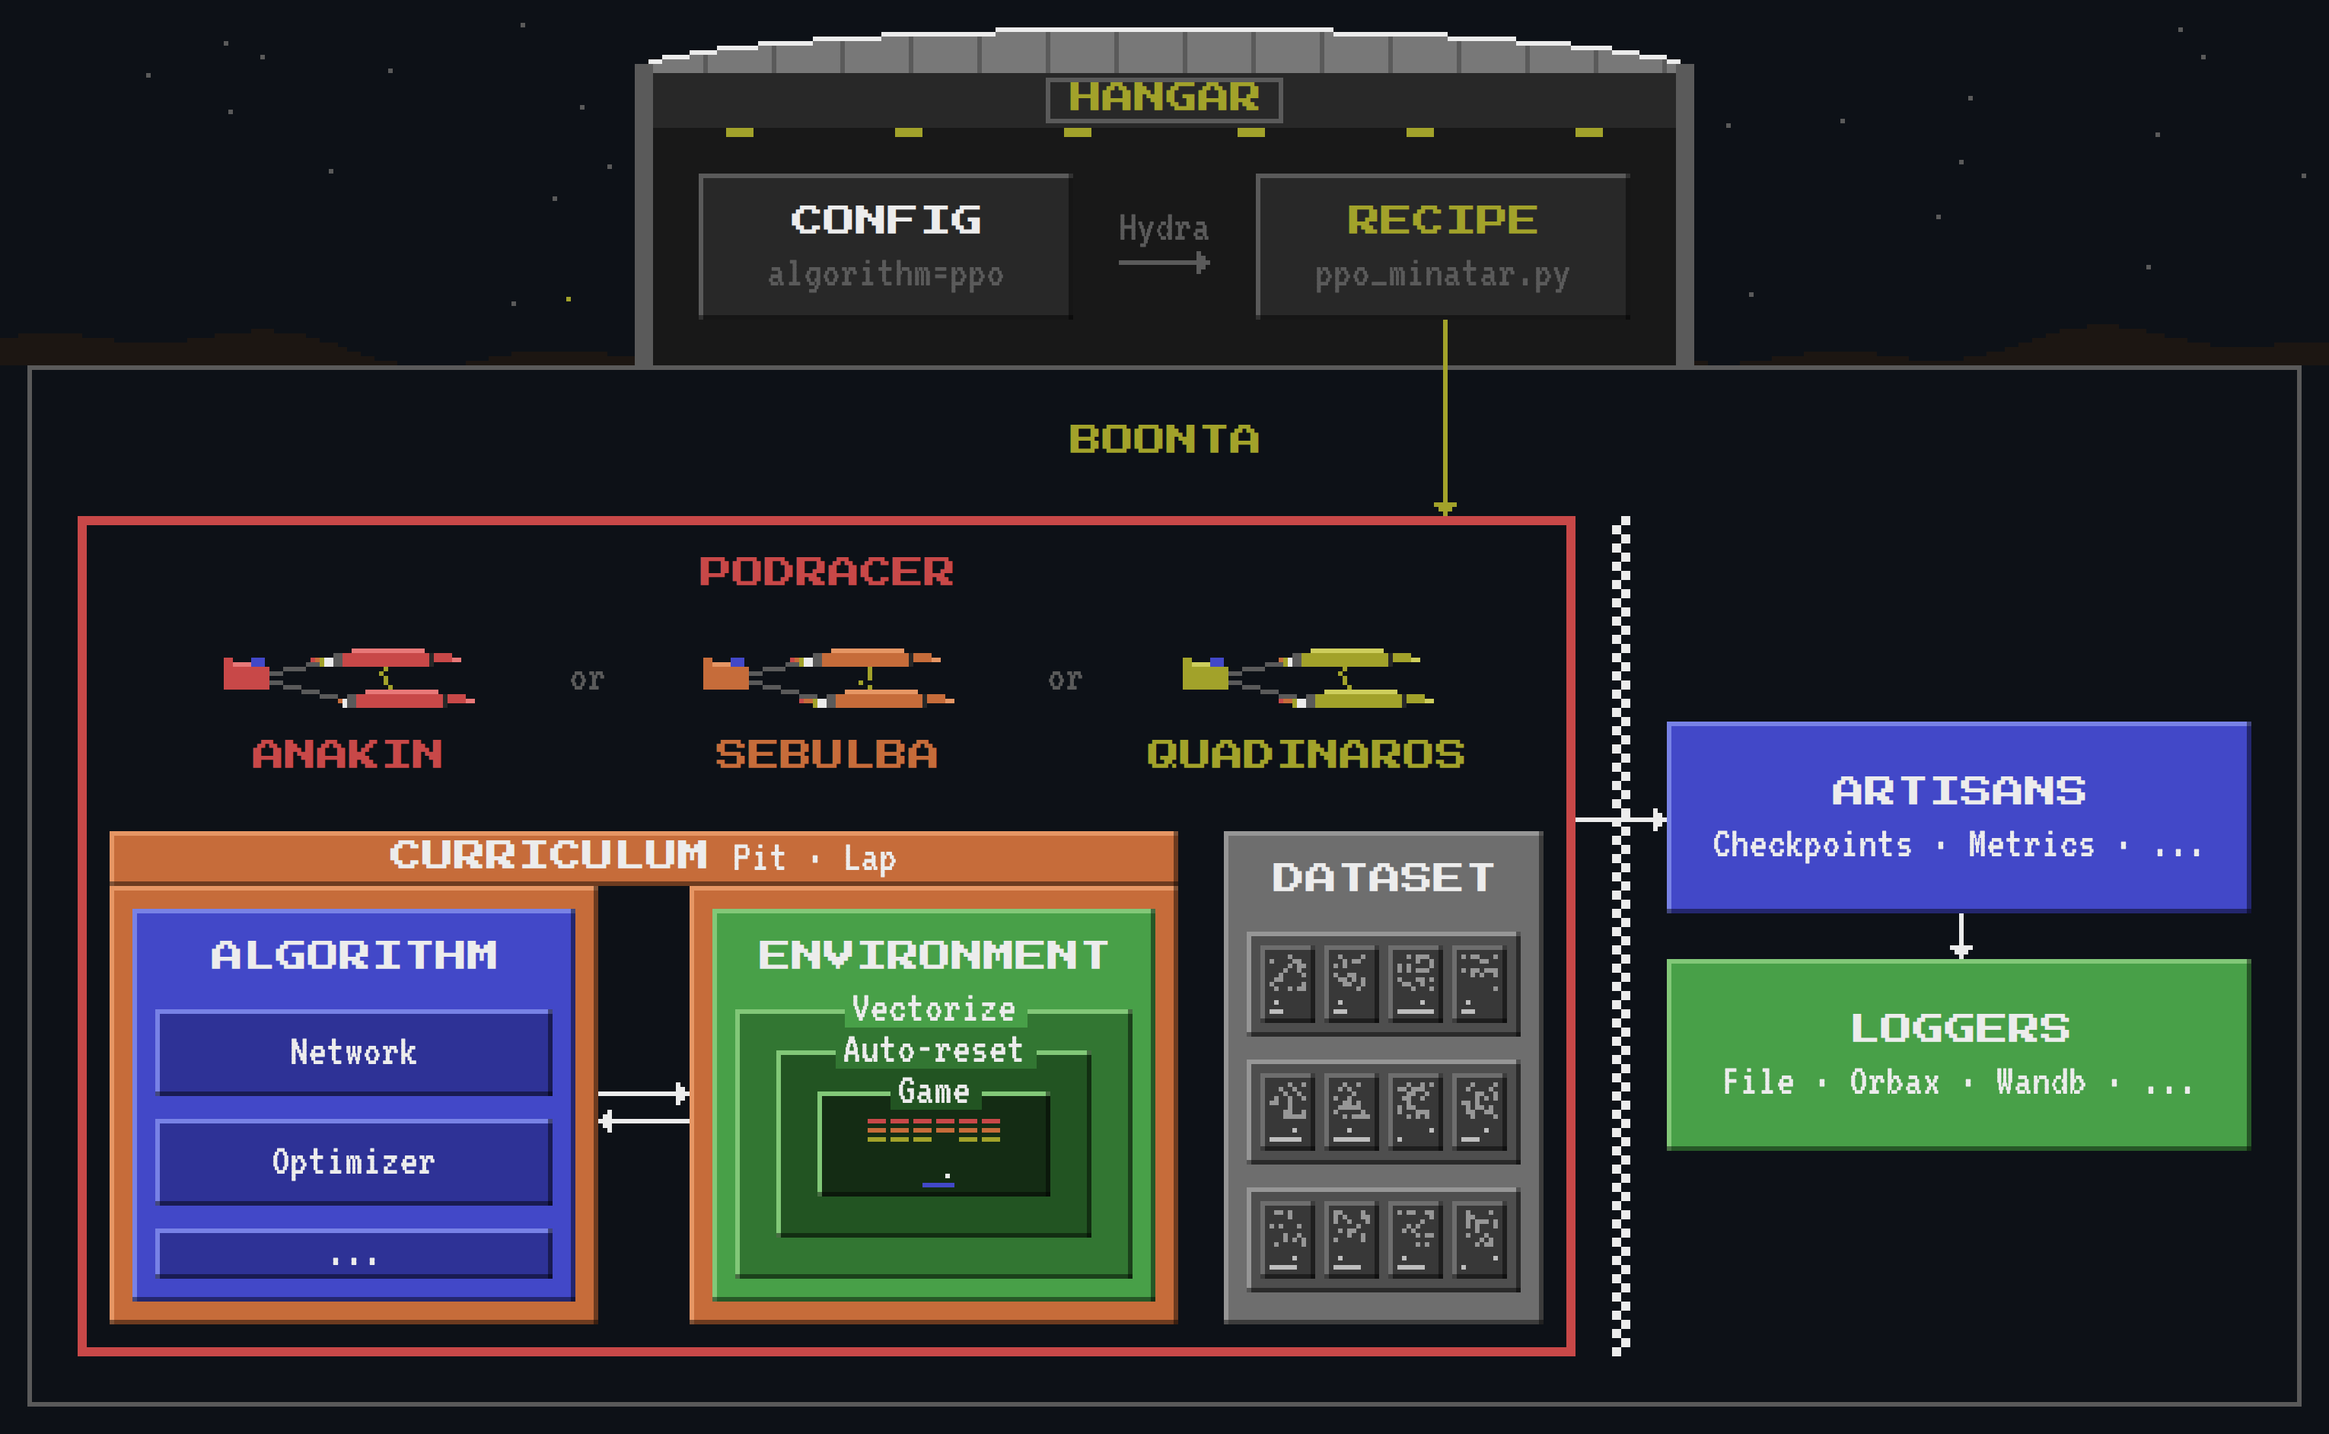
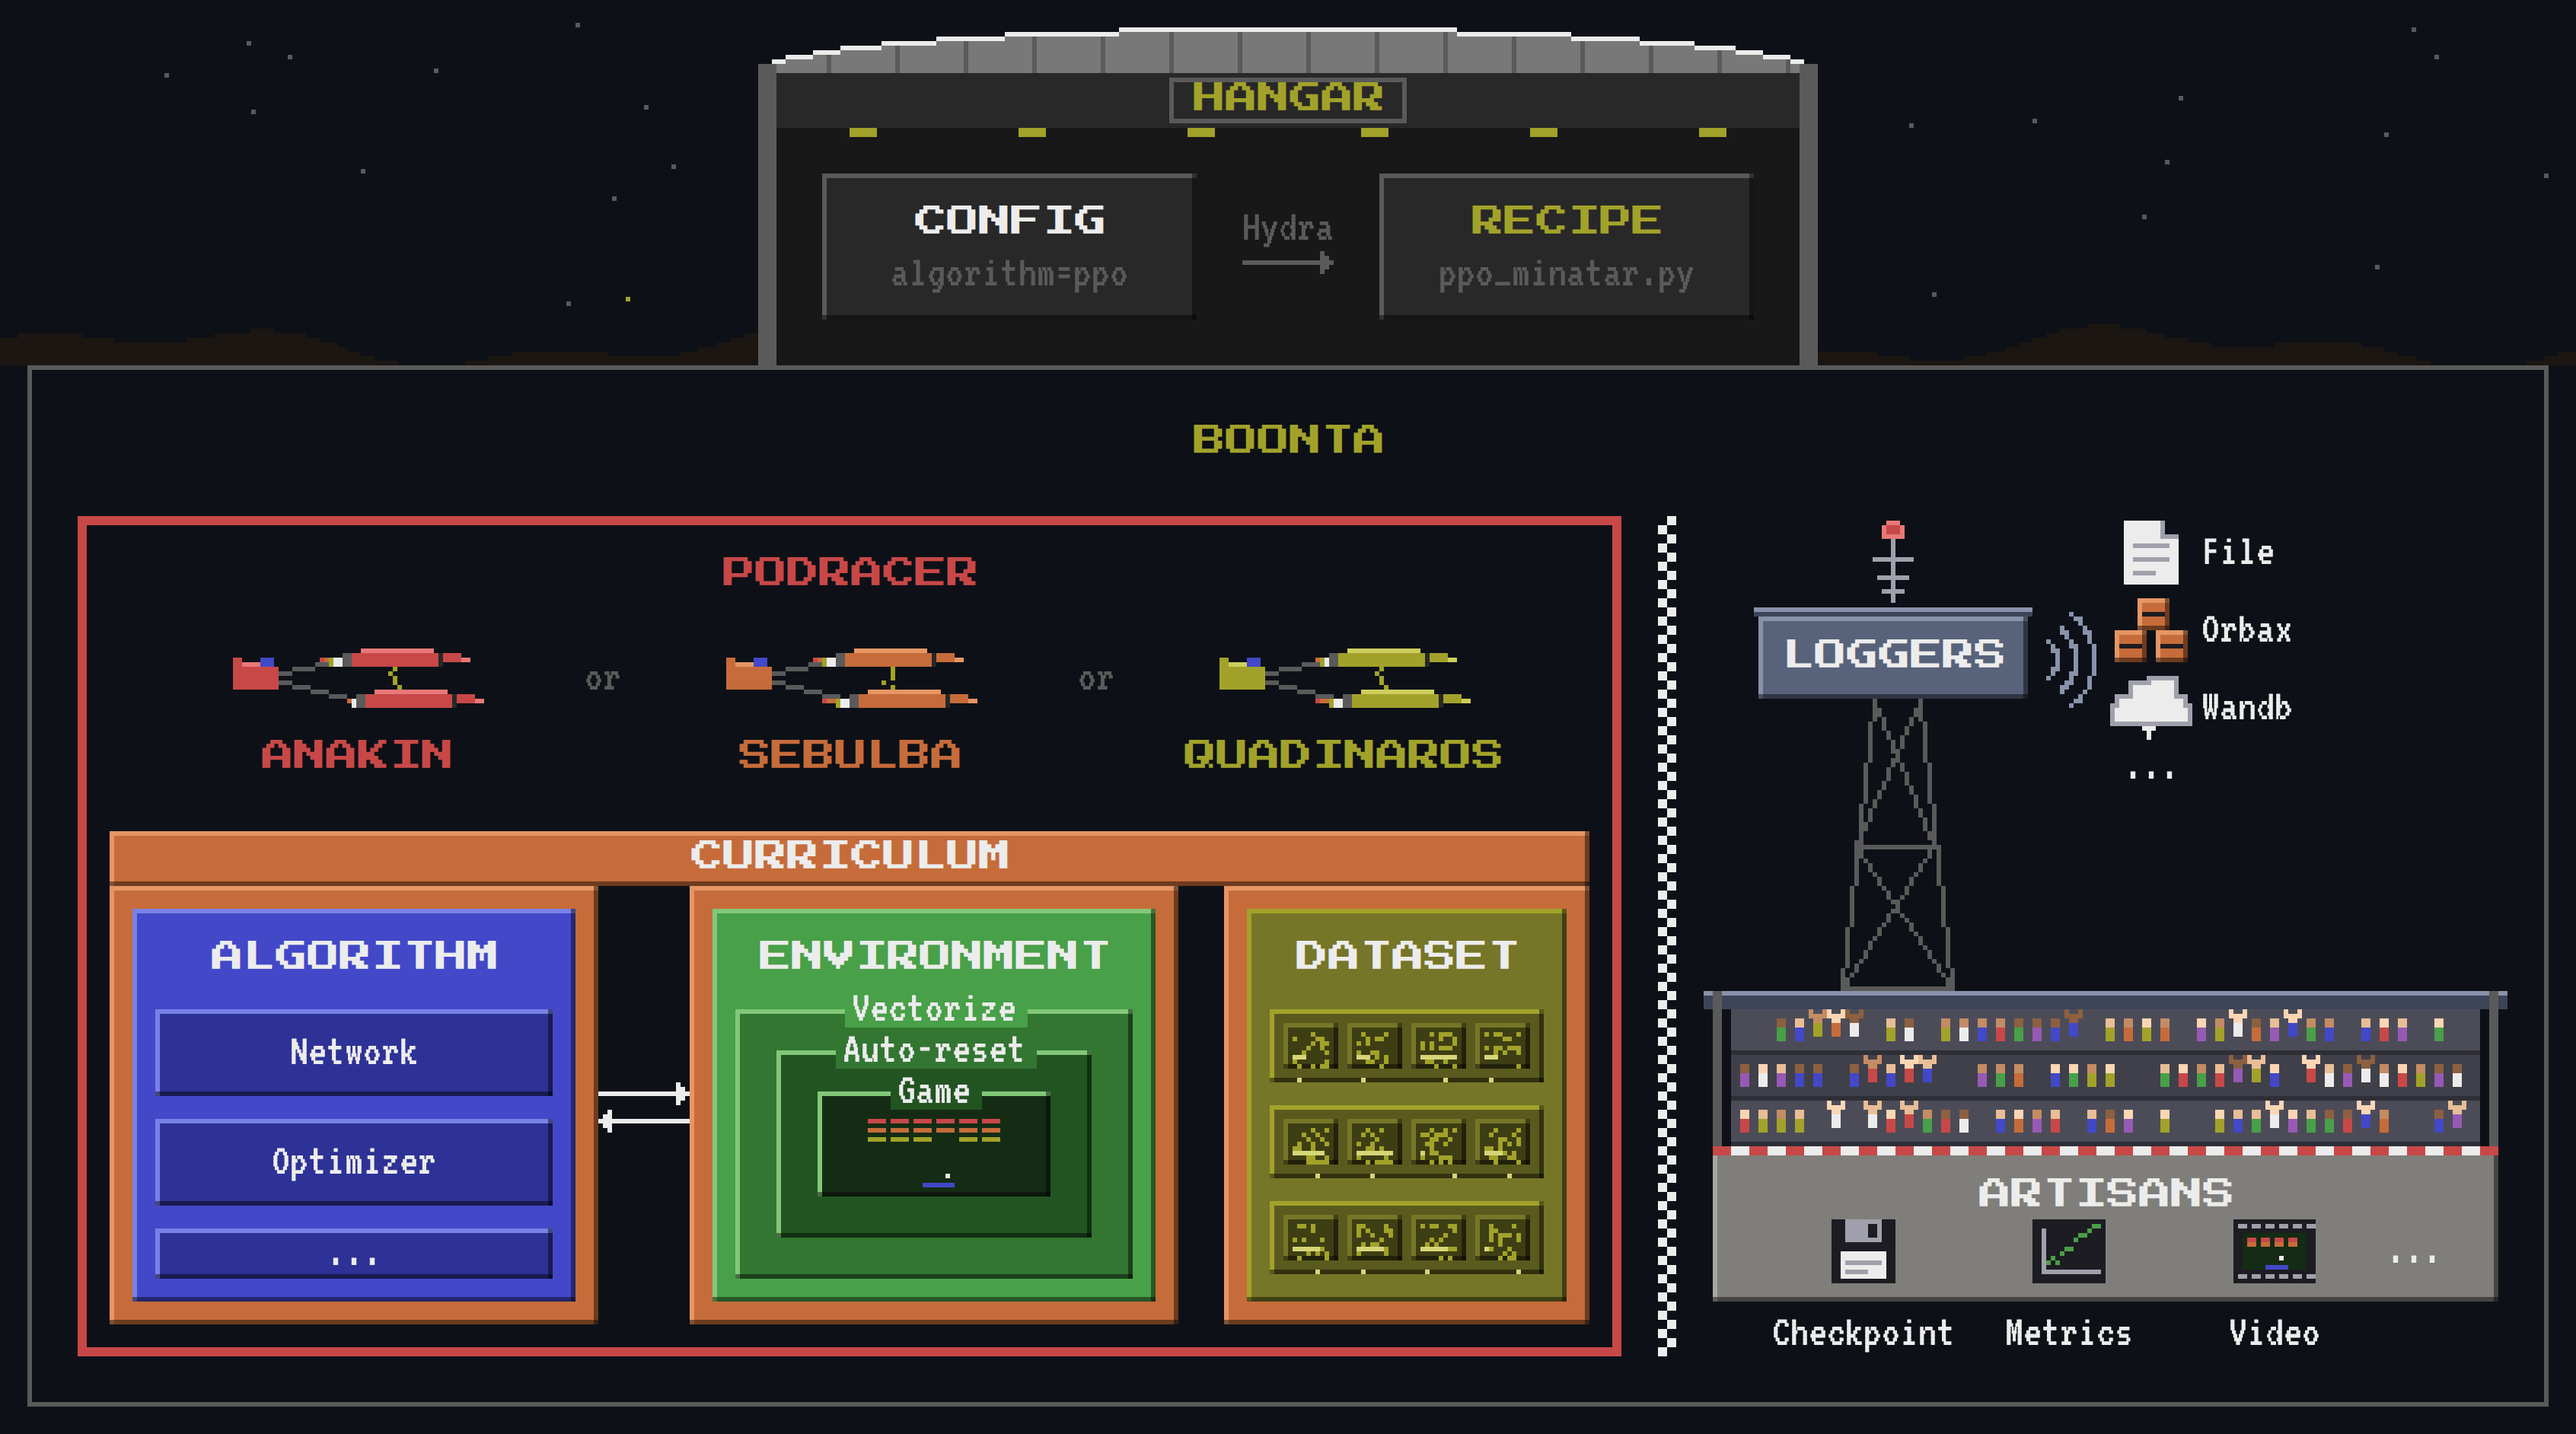
Seat artisans and loggers in a grandstand and put the dataset under the curriculum (#61)

diff --git a/README.md b/README.md
@@ -8,7 +8,7 @@
 
 <picture>
   <source media="(prefers-color-scheme: dark)" srcset="docs/structure-dark.webp">
-  <img src="docs/structure-light.webp" width="100%" alt="The hangar, holding the config and the recipe, stands on boonta. The recipe builds a podracer, one of Anakin, Sebulba or Quadinaros, which holds a curriculum wrapping the algorithm (network, optimizer and more) and the environment (vectorize around auto-reset around the game), plus a dataset for offline training. Past the finish line, artisans craft checkpoints and metrics and loggers record them.">
+  <img src="docs/structure-light.webp" width="100%" alt="The hangar, holding the config and the recipe, stands on boonta. The recipe builds a podracer, one of Anakin, Sebulba or Quadinaros, which holds a curriculum wrapping the algorithm (network, optimizer and more), the environment (vectorize around auto-reset around the game) and, for offline training, the dataset. Beside the track a grandstand watches the race: artisans along its wall craft checkpoints, metrics and videos, and loggers broadcast them from the tower on its roof.">
 </picture>
 
 </div>
